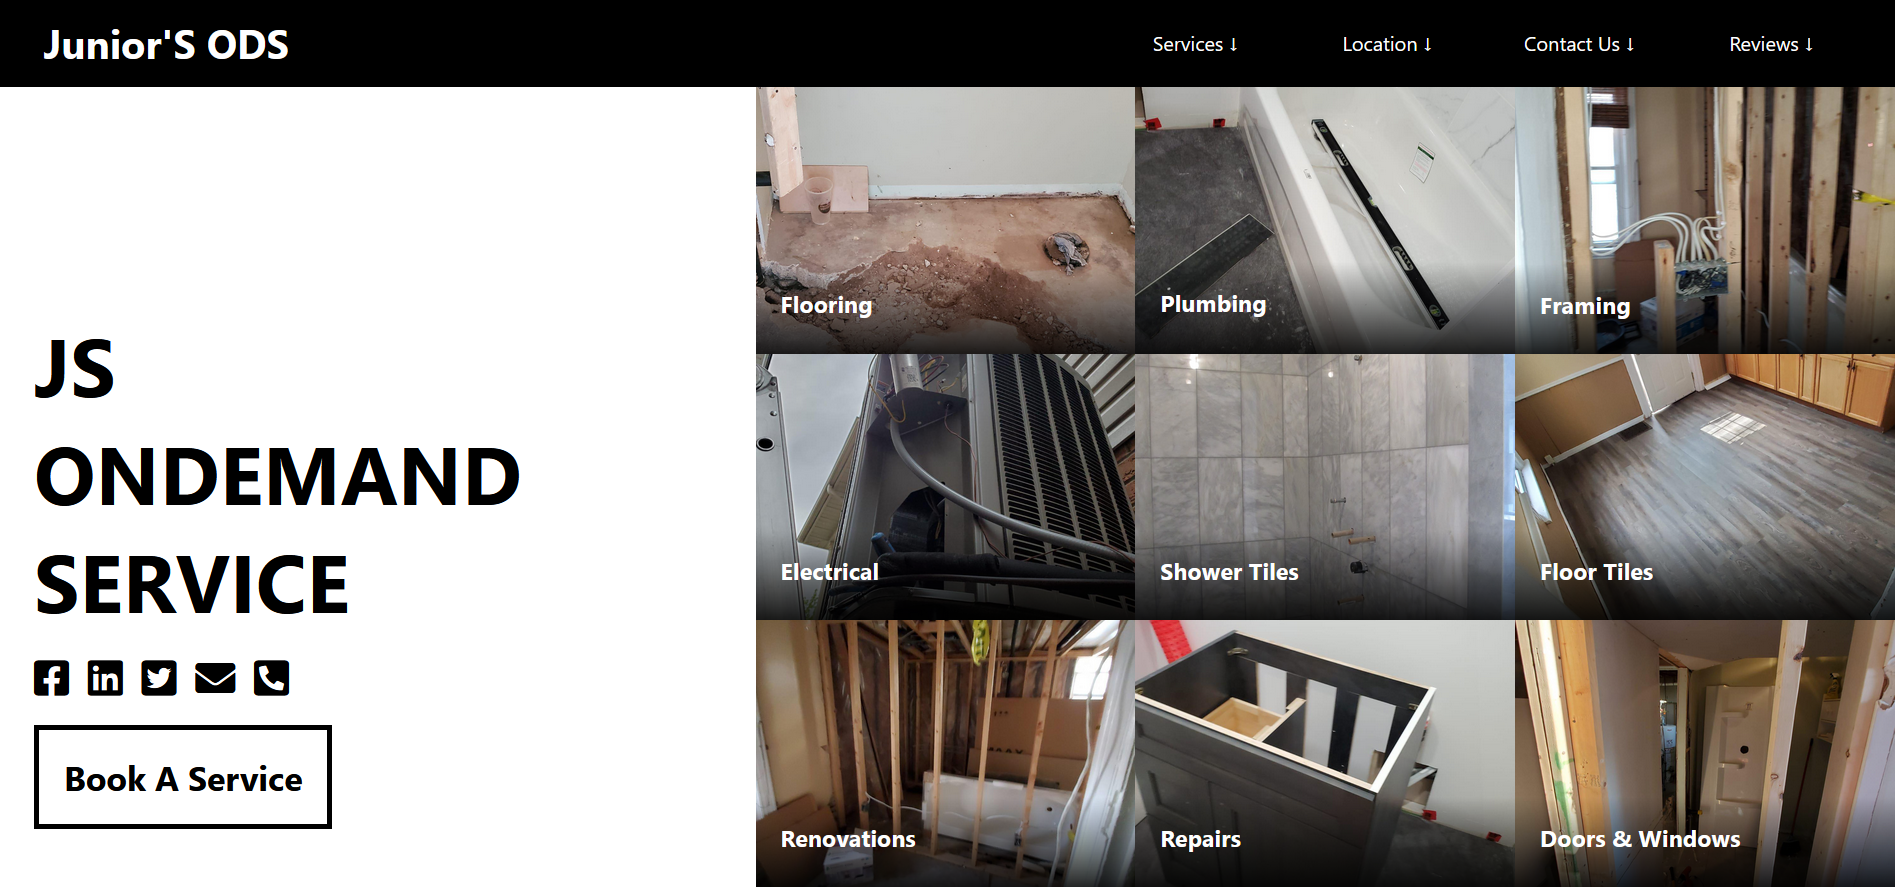
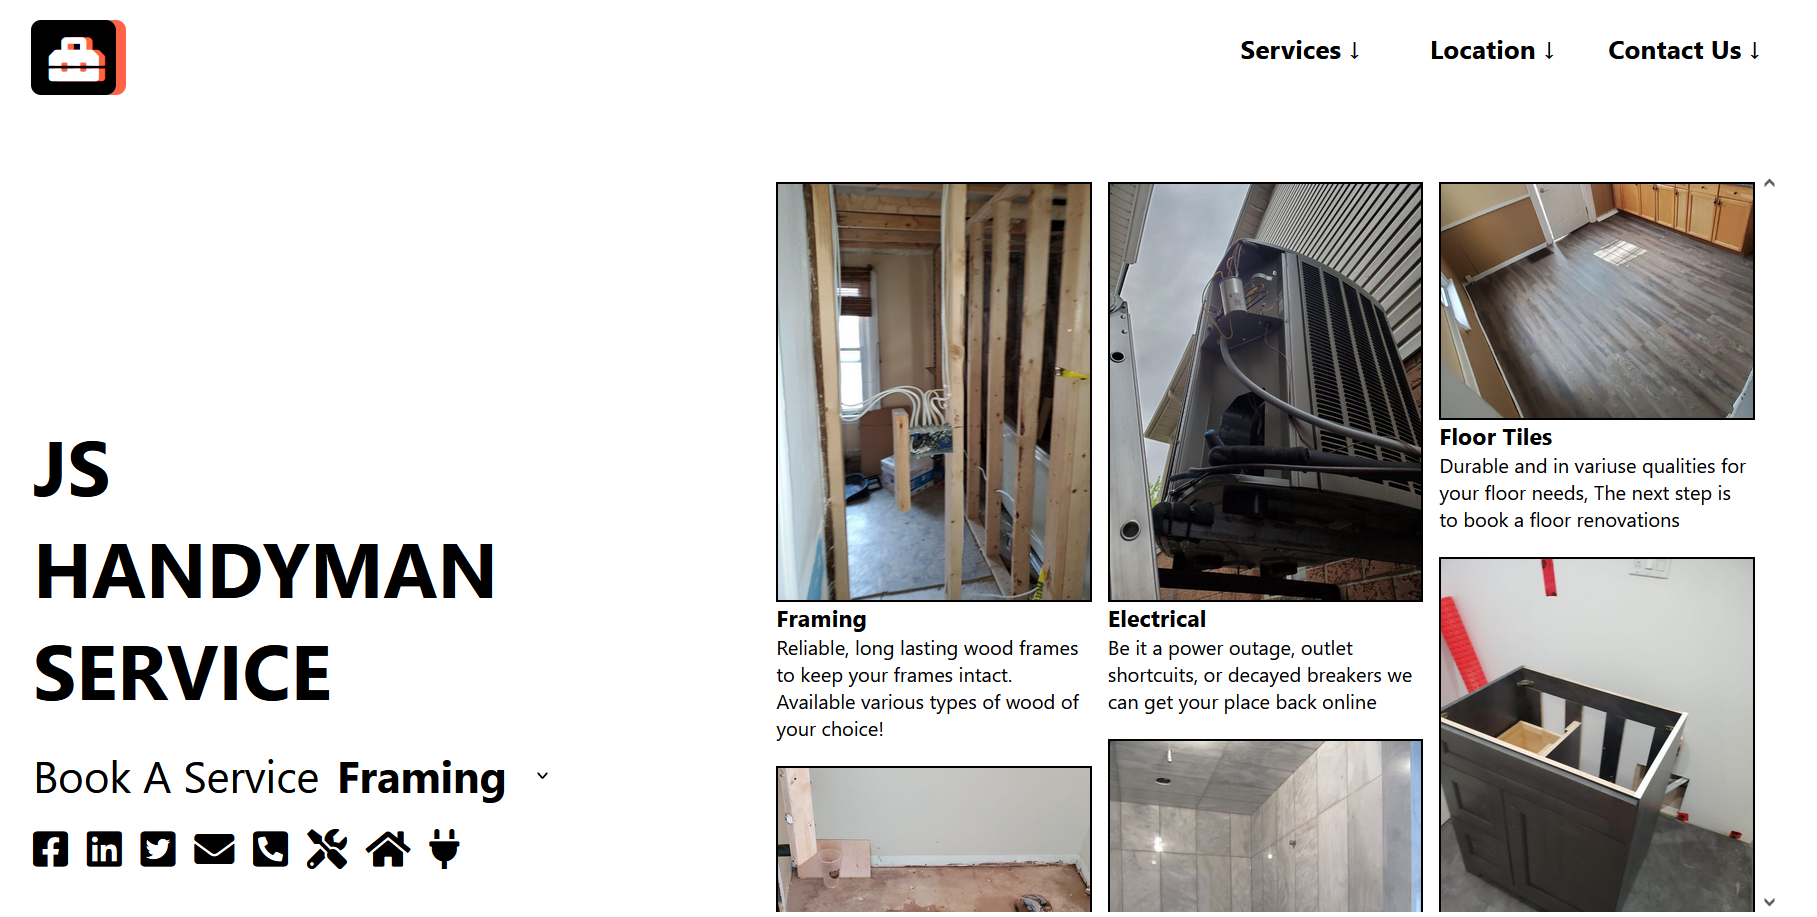
new style

diff --git a/src/style.css b/src/style.css
@@ -261,8 +261,6 @@ header a:hover {
     width: 40px;
 }
 
-#covid2 label {}
-
 /* -------------------form-------------- */
 
 #formOver {
@@ -434,25 +432,32 @@ footer i {
 }
 
 @media only screen and (max-width: 1100px) {
+    header #logo {
+        width: 60vw;
+    }
+    header a {
+        width: 13vw;
+    }
     #intro {
         grid-template-columns: 100%;
     }
-    #slide1 h1 {
-        margin-top: 15vh;
-        font-size: 45px;
-    }
     #slideshow {
-        display: none;
+        display: none !important;
+    }
+    #slide1 h1 {
+        margin-top: 45vh;
     }
     #about {
-        padding-top: 100px;
+        padding-top: 50px;
     }
-    #about_des {
-        width: 70%;
+    #about_services {
+        width: 100%;
     }
-    #about_bottom {
-        width: 80%;
-        margin-left: 10%;
+    #location {
+        padding-bottom: 100px;
+    }
+    #review div p {
+        font-size: 1.4vw;
     }
     #form {
         display: inline-block;
@@ -462,21 +467,18 @@ footer i {
         max-width: 450px;
         margin: auto;
     }
-    #qoutes {
-        padding-bottom: 100px;
-    }
-    #qoutes h3 {
-        width: 90%;
-    }
-    footer {
-        margin-top: 80px;
-    }
 }
 
-@media only screen and (max-width: 850px) {
+@media only screen and (max-width: 900px) {
     .section {
         width: 90%;
         margin-left: 5%;
+    }
+    #about {
+        grid-template-columns: 100%;
+    }
+    #about img {
+        display: none;
     }
     header h1 {
         width: 35vw;

diff --git a/src/Home.js b/src/Home.js
@@ -1,9 +1,8 @@
 import React from "react";
 import Form from "./Form";
-import GoogleMapReact from "google-map-react";
 import $ from "jquery";
-import "./style.css";
 import "./slide.css";
+import "./style.css";
 import "./animate.min.css";
 import Geolocation from "./geo.PNG";
 import Services from "./services.jpg";
